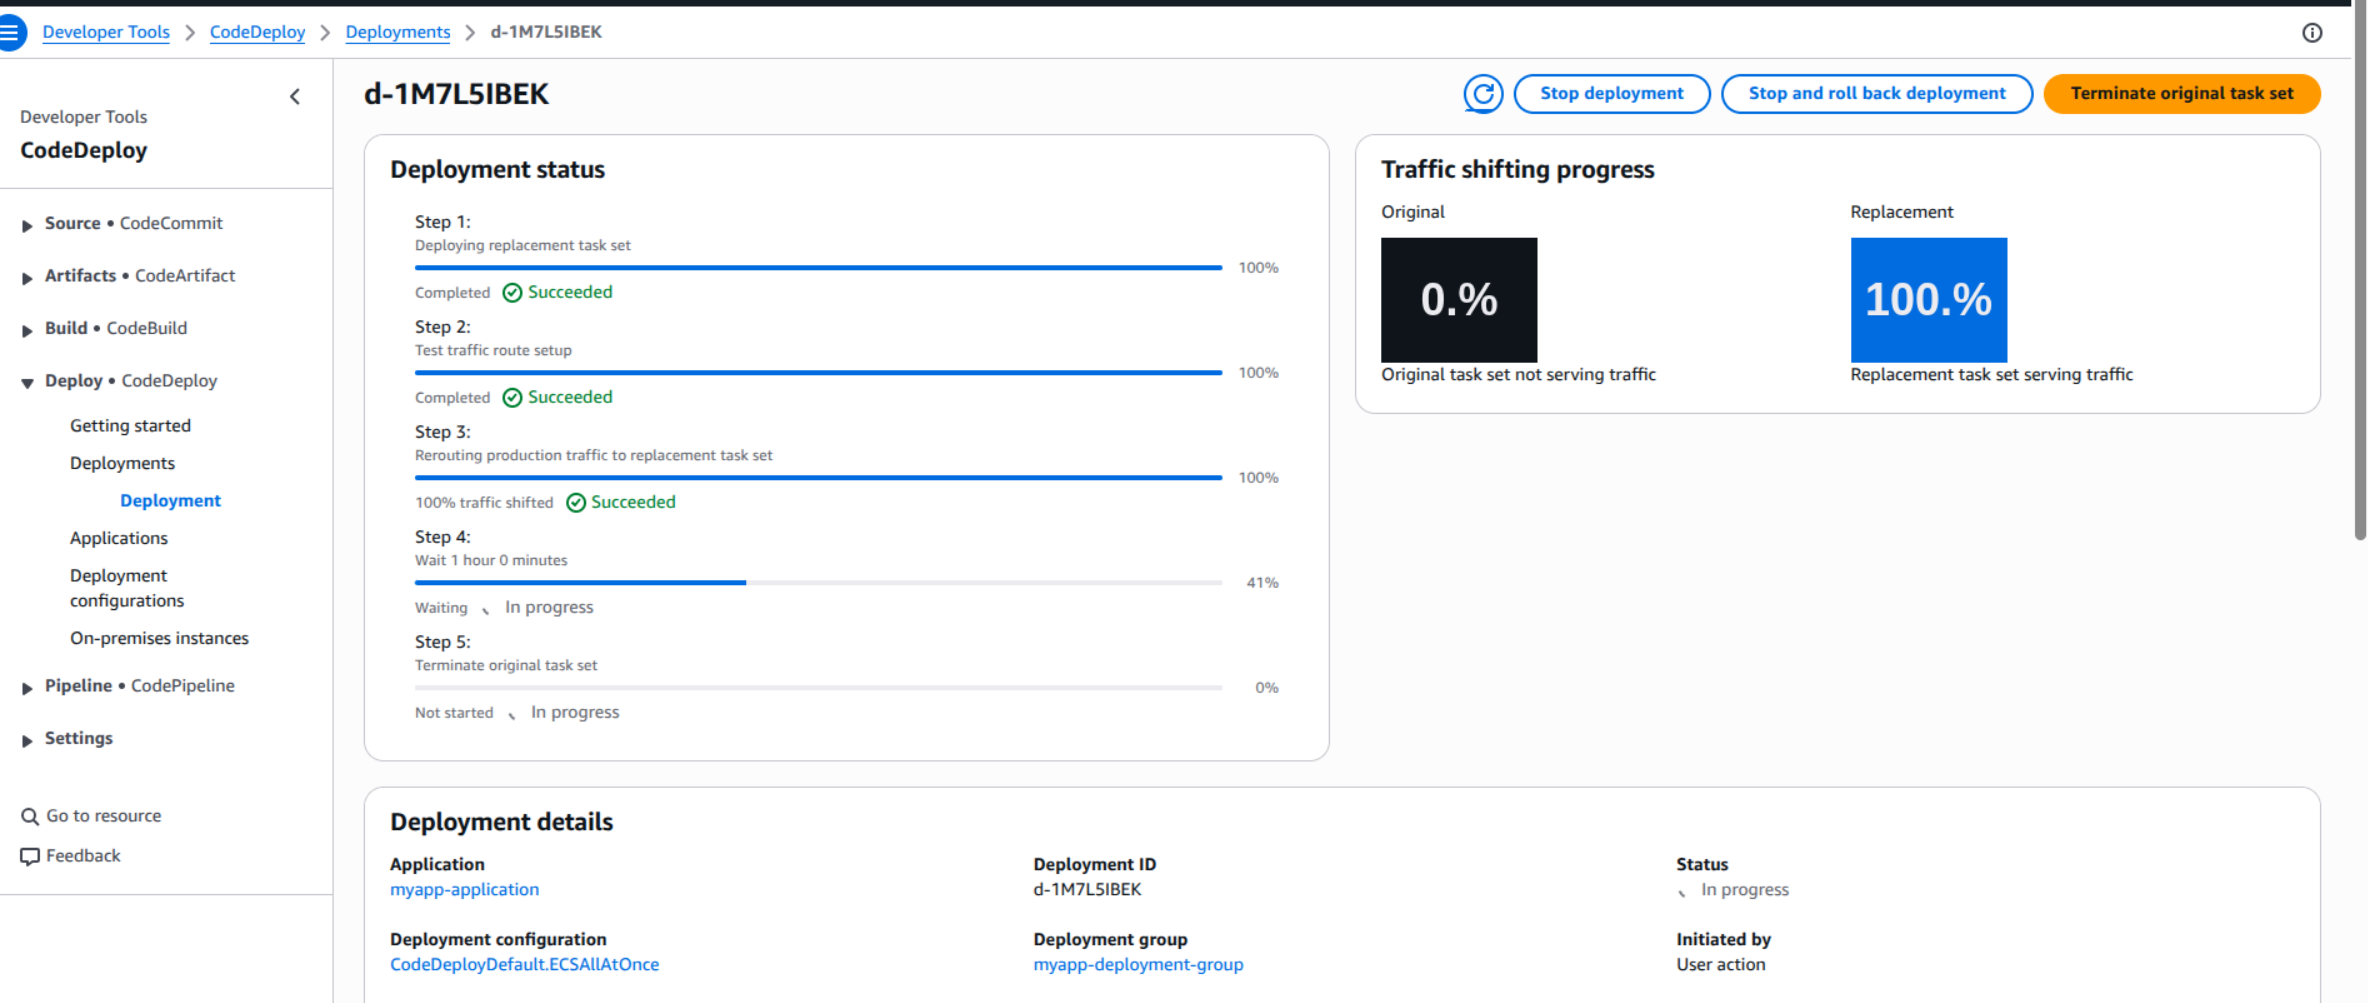
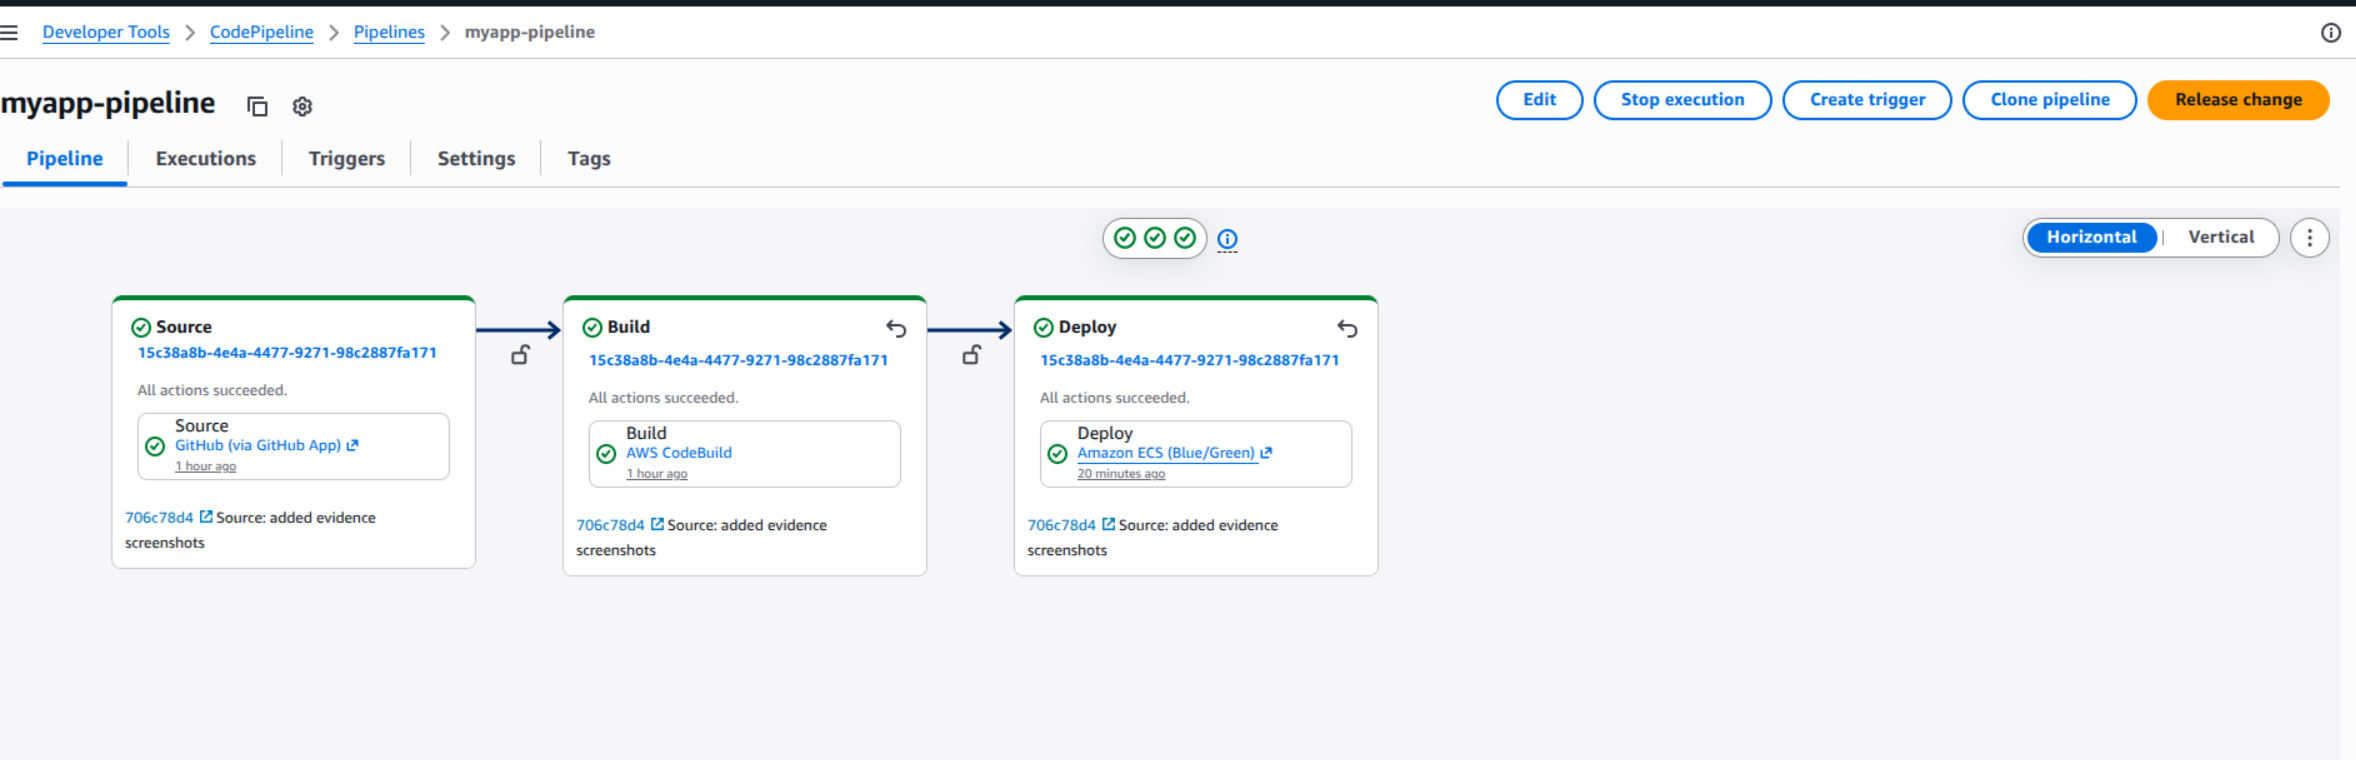
added evidence screenshots

diff --git a/README.md b/README.md
@@ -10,7 +10,7 @@ This repository contains a sample Node.js app and AWS configuration files for a 
 5. **Compute:** The ECS service serves the application behind an Application Load Balancer (ALB).
 
 ---
-
+![alt text](image.png)
 ## Project Evidence & Screenshots
 
 ### 1. Pipeline Architecture Diagram